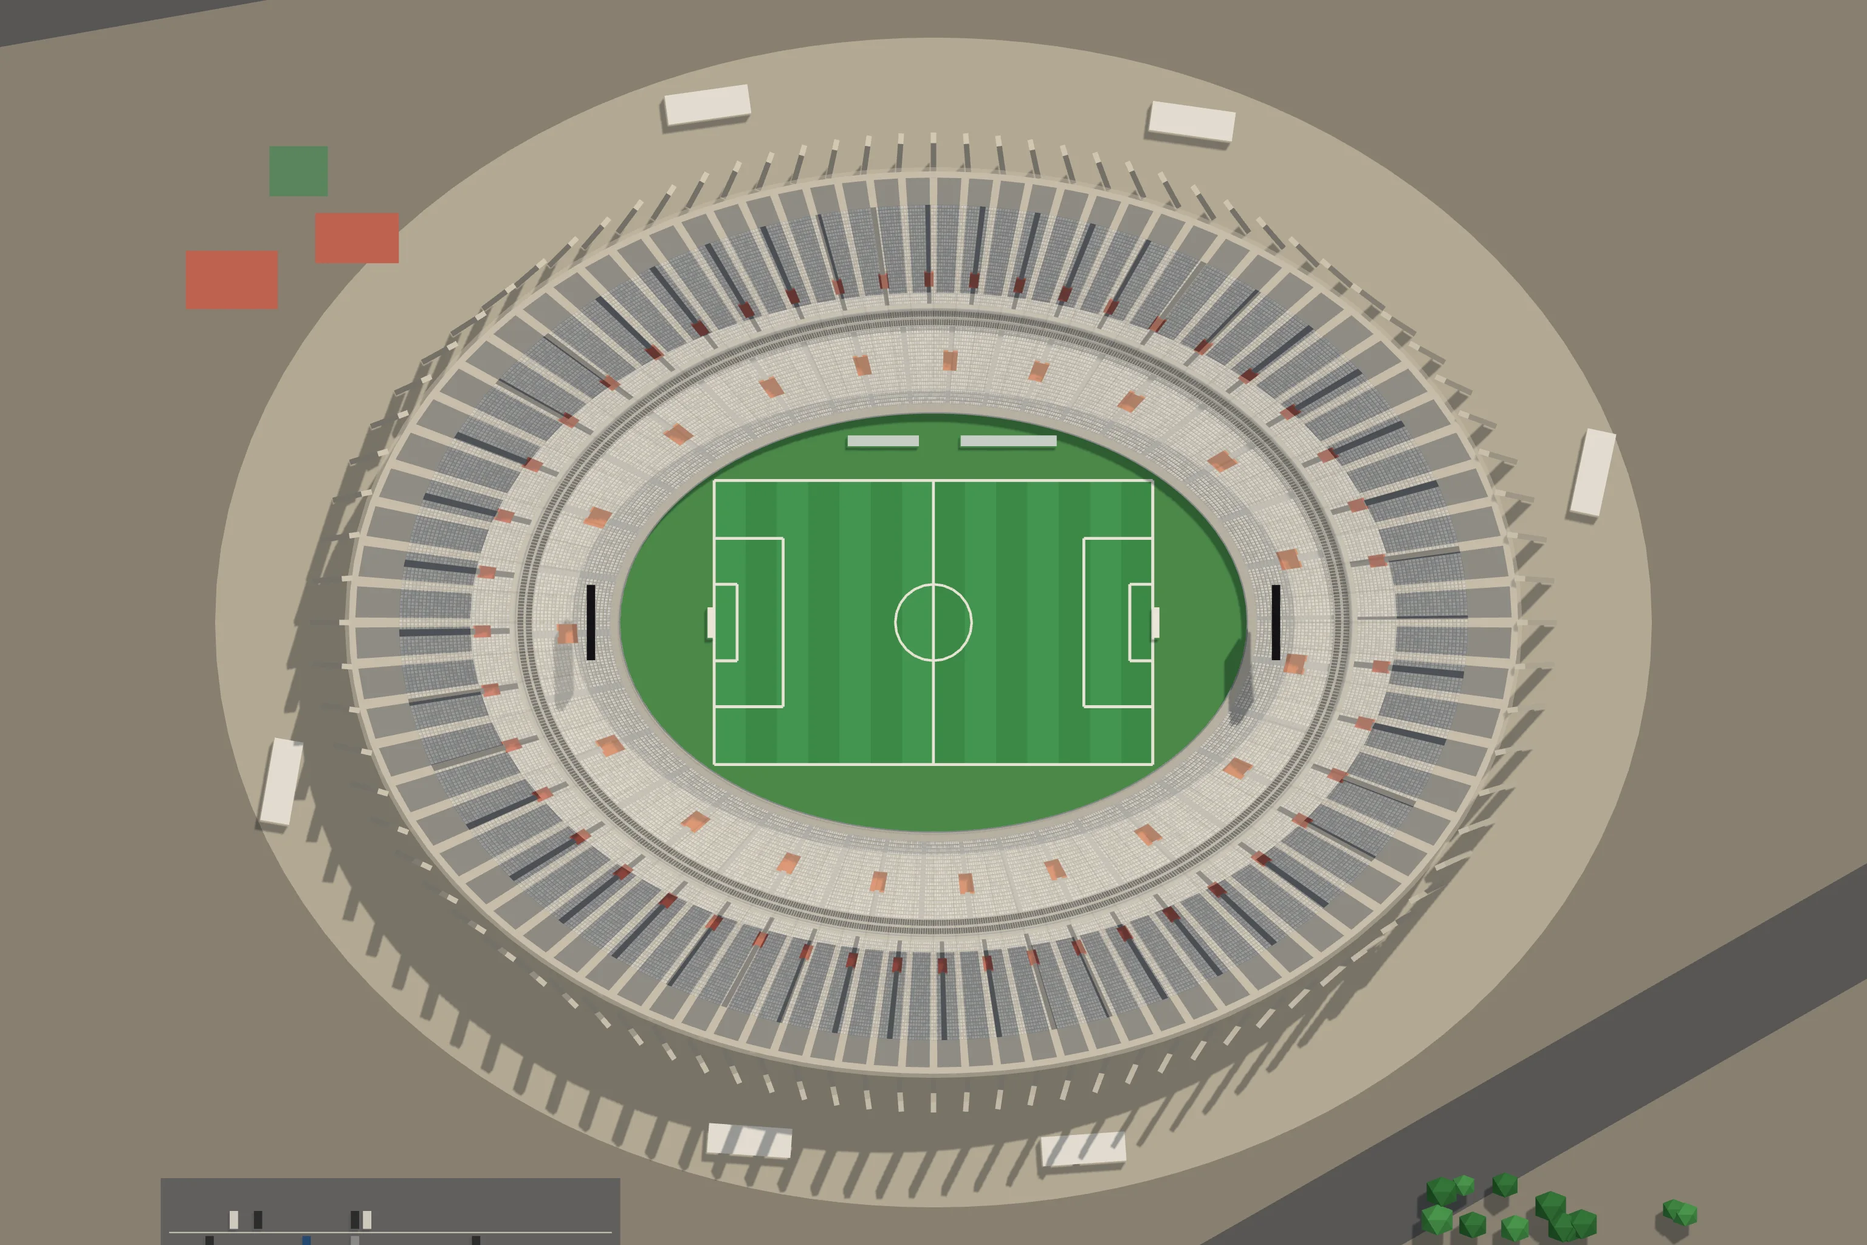
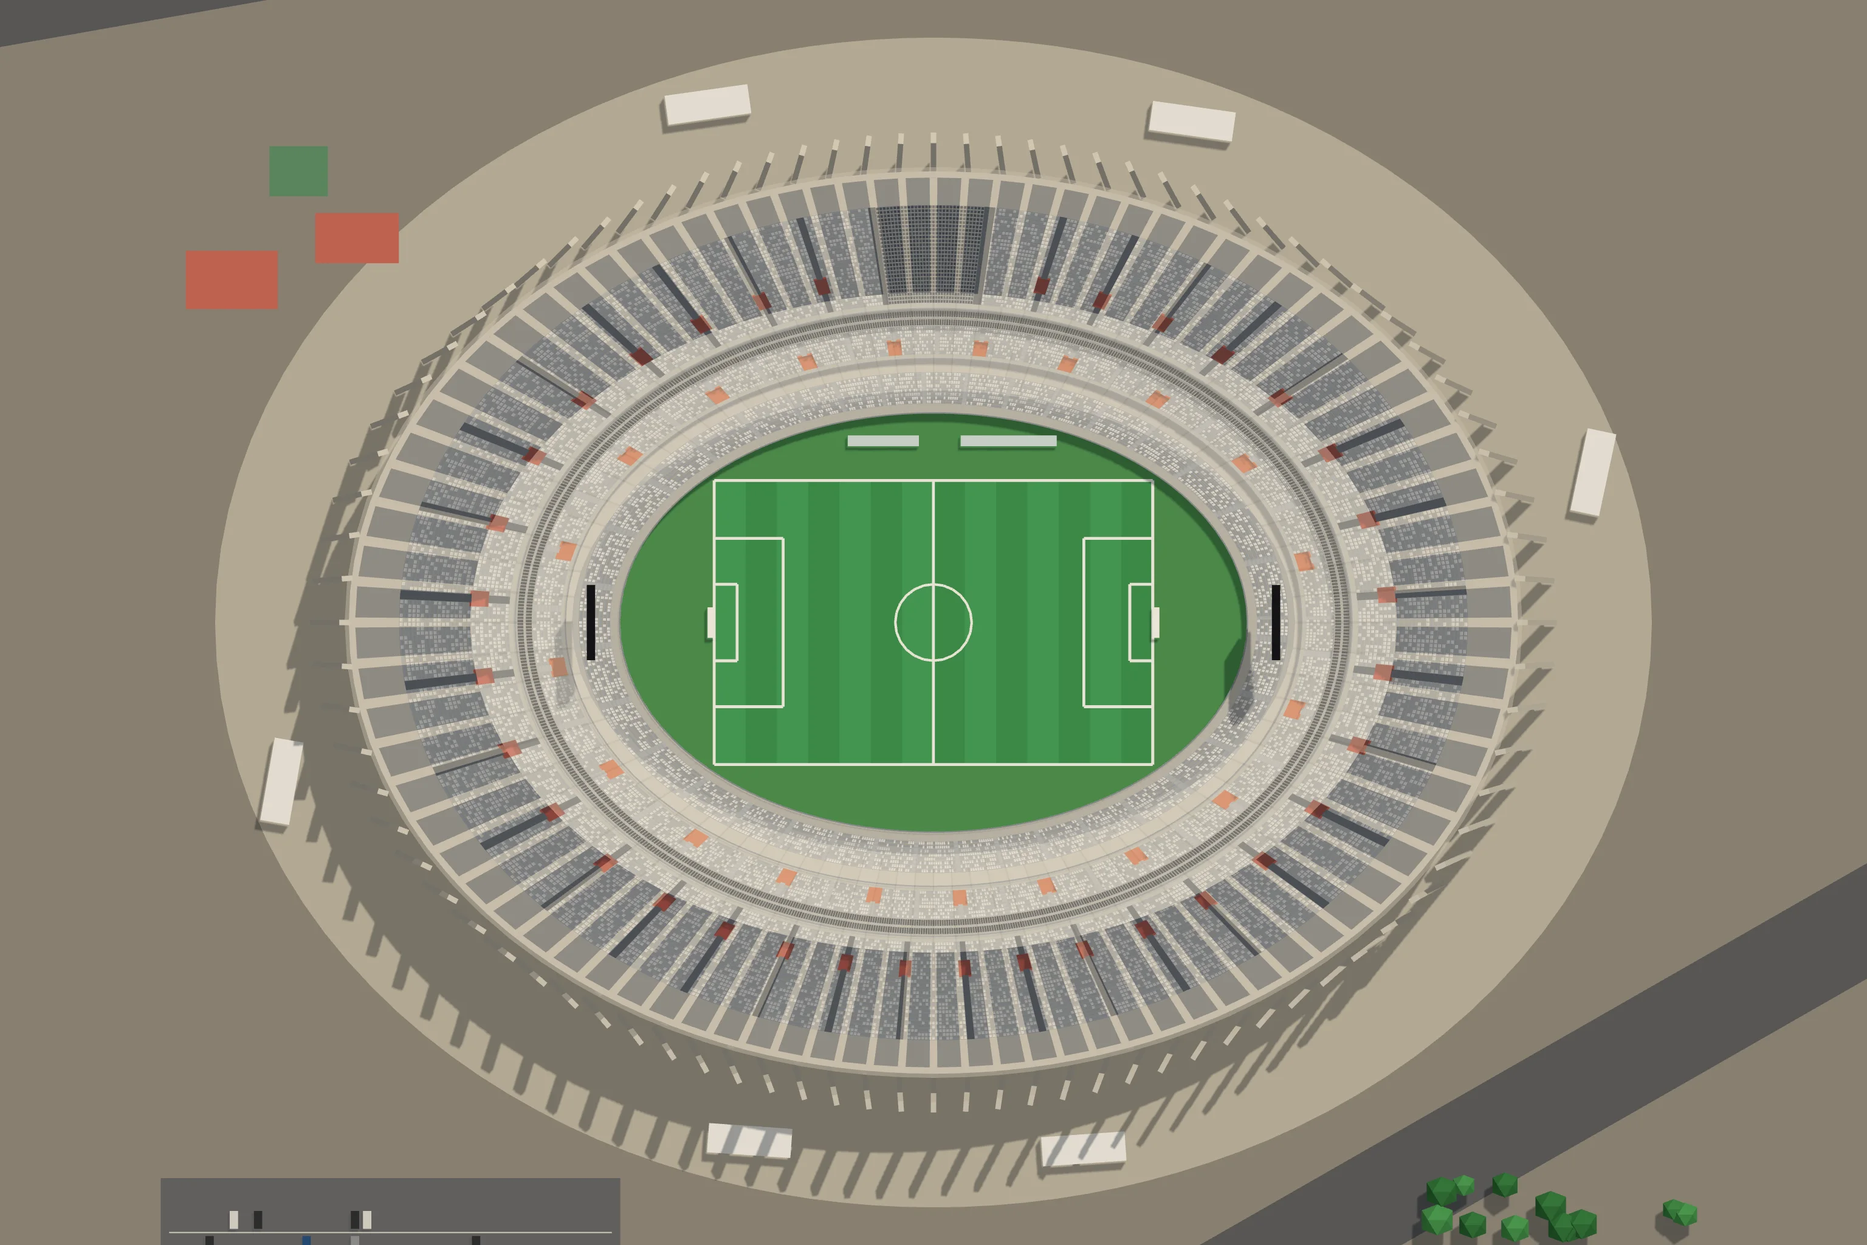
Mineirão pelas fotos novas do dono: o lance de baixo partido pelo corredor de concreto, com o muro e as bocas laranja; a cadeira em mosaico de cinzas; a tribuna de imprensa escura
Claude-Session: https://claude.ai/code/session_019hwwMAyyP7ZAvyq6wYTetr

Changed region(s): [[0.2188, 0.1562, 0.7812, 0.8438]]

diff --git a/cenario3d/planta.html b/cenario3d/planta.html
@@ -289,24 +289,24 @@ button:focus-visible, input:focus-visible { outline: 2px solid var(--selecao); o
 
 <script type="module">
 import * as THREE from 'https://cdn.jsdelivr.net/npm/three@0.160.0/build/three.module.min.js';
-import { planoDaCasa, montarCasa, juntarBlocos, lugarDoDecalque, placasDoLote, segmentosDoMuro, carrosDoEstacionamento, portaoDoEstacionamento } from './js/casas3d.js?v=68bb783b10';
-import { montarModelos } from './js/modelos3d.js?v=68bb783b10';
-import { moldeDaPeca, comTransformador } from './js/props3d.js?v=68bb783b10';
-import { ATLAS } from './js/modelos_atlas.js?v=68bb783b10';
-import { Construtor, sorteio } from './js/construtor3d.js?v=68bb783b10';
-import { gerarProposta, MAPAS, MAPA_DO_PORTE, RUA, LONGE_DO_ESTADIO_M, cisaoDaPraca, VAO_CIDADES_M, PRAIA_A_MAIS } from './js/proposta.js?v=68bb783b10';
-import { montarSede, nivelQueCabe } from './js/sede3d.js?v=68bb783b10';
-import { onibus as onibusDetalhe, juntar as juntarDetalhe } from './js/detalhe3d.js?v=68bb783b10';
-import { montarLoteDeVeraneio, plantaDoLote, festaNoMundo, noMundoDoLote, cenaDaFesta, detalheDaCasaDaFesta } from './js/veraneio3d.js?v=68bb783b10';
-import { montarCaravana, cenaDaCaravana } from './js/caravana3d.js?v=68bb783b10';
-import { montarEstacao, montarTunel, montarCarro, TREM } from './js/metro3d.js?v=68bb783b10';
-import { montarShopping, montarDelegacia, montarPraca, montarIgreja, montarEscola, montarHospital } from './js/equip3d.js?v=68bb783b10';
-import { montarEquipAntigo, TIPOS_ANTIGOS } from './js/equip_antigo3d.js?v=68bb783b10';
-import { PECAS_PRAIA, montarPecaDaPraia } from './js/praia3d.js?v=68bb783b10';
-import { ESPECIES_LP, FLORA_LP, montarArvoreLowpoly, montarAsDez, facesDaArvore, especieLowpolyDe } from './js/arvores_lowpoly.js?v=68bb783b10';
-import { plantarMato, montarMato, LONGE_M, DENSIDADE, LADRILHO_M } from './js/mato3d.js?v=68bb783b10';
-import { ESTADIOS_JOGO, montarEstadioJogo, glbDoEstadio, cortarEstadio, plantaDoEstadio, modeloDaLotacao, nomeDoLetreiro, nomeComAcento, marcaDoEstadio, BOCAS_DOS_PORTOES, BILHETERIAS_DA_RUA } from './js/estadios3d.js?v=68bb783b10';
-import { PECAS_AMBULANTES, montarAmbulante } from './js/ambulantes3d.js?v=68bb783b10';
+import { planoDaCasa, montarCasa, juntarBlocos, lugarDoDecalque, placasDoLote, segmentosDoMuro, carrosDoEstacionamento, portaoDoEstacionamento } from './js/casas3d.js?v=083242fc08';
+import { montarModelos } from './js/modelos3d.js?v=083242fc08';
+import { moldeDaPeca, comTransformador } from './js/props3d.js?v=083242fc08';
+import { ATLAS } from './js/modelos_atlas.js?v=083242fc08';
+import { Construtor, sorteio } from './js/construtor3d.js?v=083242fc08';
+import { gerarProposta, MAPAS, MAPA_DO_PORTE, RUA, LONGE_DO_ESTADIO_M, cisaoDaPraca, VAO_CIDADES_M, PRAIA_A_MAIS } from './js/proposta.js?v=083242fc08';
+import { montarSede, nivelQueCabe } from './js/sede3d.js?v=083242fc08';
+import { onibus as onibusDetalhe, juntar as juntarDetalhe } from './js/detalhe3d.js?v=083242fc08';
+import { montarLoteDeVeraneio, plantaDoLote, festaNoMundo, noMundoDoLote, cenaDaFesta, detalheDaCasaDaFesta } from './js/veraneio3d.js?v=083242fc08';
+import { montarCaravana, cenaDaCaravana } from './js/caravana3d.js?v=083242fc08';
+import { montarEstacao, montarTunel, montarCarro, TREM } from './js/metro3d.js?v=083242fc08';
+import { montarShopping, montarDelegacia, montarPraca, montarIgreja, montarEscola, montarHospital } from './js/equip3d.js?v=083242fc08';
+import { montarEquipAntigo, TIPOS_ANTIGOS } from './js/equip_antigo3d.js?v=083242fc08';
+import { PECAS_PRAIA, montarPecaDaPraia } from './js/praia3d.js?v=083242fc08';
+import { ESPECIES_LP, FLORA_LP, montarArvoreLowpoly, montarAsDez, facesDaArvore, especieLowpolyDe } from './js/arvores_lowpoly.js?v=083242fc08';
+import { plantarMato, montarMato, LONGE_M, DENSIDADE, LADRILHO_M } from './js/mato3d.js?v=083242fc08';
+import { ESTADIOS_JOGO, montarEstadioJogo, glbDoEstadio, cortarEstadio, plantaDoEstadio, modeloDaLotacao, nomeDoLetreiro, nomeComAcento, marcaDoEstadio, BOCAS_DOS_PORTOES, BILHETERIAS_DA_RUA } from './js/estadios3d.js?v=083242fc08';
+import { PECAS_AMBULANTES, montarAmbulante } from './js/ambulantes3d.js?v=083242fc08';
 
 const $ = id => document.getElementById(id);
 const aviso = $('aviso');
@@ -323,25 +323,25 @@ function carregarScript(src) {
 }
 window.TO = window.TO || { dados: {} };
 try {
-  await carregarScript('dados/torcidas.js?v=68bb783b10');
-  await carregarScript('dados/times.js?v=68bb783b10');
-  await carregarScript('dados/cena_estadio.js?v=68bb783b10');
-  await carregarScript('dados/cidades.js?v=68bb783b10');
-  await carregarScript('dados/estadios.js?v=68bb783b10');
-  await carregarScript('dados/escudos.js?v=68bb783b10');
+  await carregarScript('dados/torcidas.js?v=083242fc08');
+  await carregarScript('dados/times.js?v=083242fc08');
+  await carregarScript('dados/cena_estadio.js?v=083242fc08');
+  await carregarScript('dados/cidades.js?v=083242fc08');
+  await carregarScript('dados/estadios.js?v=083242fc08');
+  await carregarScript('dados/escudos.js?v=083242fc08');
   /* o manifesto das faixas de verdade (a arte do dono, 29/09/2026): a arquibancada estende a da torcida */
-  await carregarScript('dados/faixas.js?v=68bb783b10').catch(() => {});
+  await carregarScript('dados/faixas.js?v=083242fc08').catch(() => {});
   /* O DOMÍNIO DOS BAIRROS (o dono, 30/09/2026): as sedes repetidas num
      bairro saem espalhadas (nos dados, na carga) e os bares ganham o
      bairro deles — o mesmo módulo do jogo (js/mundo/dominio.js) */
-  await carregarScript('js/dominio.js?v=68bb783b10').catch(() => {});
+  await carregarScript('js/dominio.js?v=083242fc08').catch(() => {});
 } catch (e) {
   aviso.textContent = 'A planta da cidade não carregou (' + e.message + '). Recarregue a página.';
   throw e;
 }
 /* os PNG dos escudos, embutidos (o montar.sh gera): sem o arquivo, o
    caminho vai direto pra img/escudos/ */
-await carregarScript('dados/escudos_embutidos.js?v=68bb783b10').catch(() => {});
+await carregarScript('dados/escudos_embutidos.js?v=083242fc08').catch(() => {});
 const P = TO.dados.plantaEstadio, K = P.CIDADE, M = P.METRO, CALC = K.CALC;
 /* o mapa da vez (o pequeno, o médio ou o grande, montado pra praça
    escolhida): quem monta é usarMapa, lá embaixo */

diff --git a/cenario3d/dados/estadios_cenas.js b/cenario3d/dados/estadios_cenas.js
@@ -11705,7 +11705,7 @@ window.__ESTADIOS = {
    "visitante": 3
   },
   "foto": {
-   "imagem": "img/cenas/estadio_mineirao.webp?v=d7485997",
+   "imagem": "img/cenas/estadio_mineirao.webp?v=0746d0d3",
    "mascara": "384;384;384;384;384;384;384;384;384;384;384;384;384;384;384;384;384;384;384;384;384;384;384;384;384;384;384;384;384;384;384;384;384;384;384;384;177,30,177;169,46,169;163,58,163;158,68,158;154,76,154;150,84,150;147,90,147;144,96,144;141,102,141;138,108,138;136,112,136;133,118,133;131,122,131;129,126,129;127,130,127;125,134,125;123,138,123;121,142,121;119,146,119;118,148,118;116,152,116;115,154,115;113,158,113;112,160,112;110,164,110;109,166,109;107,170,107;106,172,106;105,174,105;104,176,104;102,180,102;101,182,101;100,184,100;99,186,99;98,188,98;97,190,97;96,192,96;95,194,95;94,196,94;93,198,93;92,200,92;92,200,92;91,202,91;90,204,90;89,206,89;88,208,88;88,208,88;87,210,87;86,103,6,103,86;86,92,28,92,86;85,88,38,88,85;84,84,48,84,84;84,81,54,81,84;83,79,60,79,83;82,77,66,77,82;82,75,70,75,82;81,74,74,74,81;81,72,78,72,81;80,71,82,71,80;80,69,86,69,80;79,68,90,68,79;79,67,92,67,79;78,67,94,67,78;78,65,98,65,78;78,64,100,64,78;77,64,102,64,77;77,63,104,63,77;77,62,106,62,77;76,62,108,62,76;76,61,110,61,76;76,60,112,60,76;75,60,114,60,75;75,59,116,59,75;75,58,118,58,75;74,59,118,59,74;74,58,120,58,74;74,57,122,57,74;74,57,122,57,74;74,56,124,56,74;73,57,124,57,73;73,56,126,56,73;73,56,126,56,73;73,56,126,56,73;73,55,128,55,73;73,55,128,55,73;73,55,128,55,73;73,55,128,55,73;72,55,130,55,72;72,55,130,55,72;72,55,130,55,72;72,55,130,55,72;72,55,130,55,72;72,55,130,55,72;72,55,130,55,72;72,55,130,55,72;72,55,130,55,72;72,55,130,55,72;73,55,128,55,73;73,55,128,55,73;73,55,128,55,73;73,55,128,55,73;73,56,126,56,73;73,56,126,56,73;73,56,126,56,73;73,57,124,57,73;74,56,124,56,74;74,57,122,57,74;74,57,122,57,74;74,58,120,58,74;74,59,118,59,74;75,58,118,58,75;75,59,116,59,75;75,60,114,60,75;76,60,112,60,76;76,61,110,61,76;76,62,108,62,76;77,62,106,62,77;77,63,104,63,77;77,64,102,64,77;78,64,100,64,78;78,65,98,65,78;78,67,94,67,78;79,67,92,67,79;79,68,90,68,79;80,69,86,69,80;80,71,82,71,80;81,72,78,72,81;81,74,74,74,81;82,75,70,75,82;82,77,66,77,82;83,79,60,79,83;84,81,54,81,84;84,84,48,84,84;85,88,38,88,85;86,92,28,92,86;86,103,6,103,86;87,210,87;88,208,88;88,208,88;89,206,89;90,204,90;91,202,91;92,200,92;92,200,92;93,198,93;94,196,94;95,194,95;96,192,96;97,190,97;98,188,98;99,186,99;100,184,100;101,182,101;102,180,102;104,176,104;105,174,105;106,172,106;107,170,107;109,166,109;110,164,110;112,160,112;113,158,113;115,154,115;116,152,116;118,148,118;119,146,119;121,142,121;123,138,123;125,134,125;127,130,127;129,126,129;131,122,131;133,118,133;136,112,136;138,108,138;141,102,141;144,96,144;147,90,147;150,84,150;154,76,154;158,68,158;163,58,163;169,46,169;177,30,177;384;384;384;384;384;384;384;384;384;384;384;384;384;384;384;384;384;384;384;384;384;384;384;384;384;384;384;384;384;384;384;384;384;384;384;384"
   },
   "cena": {
@@ -11772,7 +11772,7 @@ window.__ESTADIOS = {
      "rot": "MANDANTE 1º ESCALÃO",
      "lado": "mandante",
      "entrada": "portao_mandante",
-     "x": 931,
+     "x": 976,
      "y": 1024,
      "jogador": true
     },
@@ -11782,15 +11782,15 @@ window.__ESTADIOS = {
      "lado": "mandante",
      "entrada": "portao_mandante",
      "x": 1536,
-     "y": 1447
+     "y": 1407
     },
     {
      "id": "mandante3",
      "rot": "MANDANTE 3º ESCALÃO",
      "lado": "mandante",
      "entrada": "portao_mandante",
-     "x": 1149,
-     "y": 1349
+     "x": 1182,
+     "y": 1321
     },
     {
      "id": "visitante1",
@@ -11825,10 +11825,10 @@ window.__ESTADIOS = {
      "raio": 40,
      "dir": [
       -1,
-      0.03
+      0
      ],
-     "x": 936,
-     "y": 1042
+     "x": 619,
+     "y": 1024
     },
     {
      "id": "portao_visitante",
@@ -11836,11 +11836,11 @@ window.__ESTADIOS = {
      "lado": "visitante",
      "raio": 40,
      "dir": [
-      0.67,
-      -0.75
+      0.77,
+      -0.64
      ],
-     "x": 1859,
-     "y": 663
+     "x": 2154,
+     "y": 505
     }
    ],
    "pmPostos": [

diff --git a/cenario3d/js/jogo2d.js b/cenario3d/js/jogo2d.js
@@ -17,7 +17,7 @@
    cartão da partida cai perto da hora da bola e nada do que conta o
    placar passa na frente dele.
    ========================================================= */
-import { CASCA } from './jogo_casca.js?v=68bb783b10';
+import { CASCA } from './jogo_casca.js?v=083242fc08';
 
 const carregarScript = src => new Promise((ok, erro) => {
   const s = document.createElement('script');
@@ -31,17 +31,17 @@ async function montarJogo() {
   caixa.innerHTML = CASCA;
   while (caixa.firstChild) document.body.appendChild(caixa.firstChild);
   /* os escudos, as fotos das praças e as bandeiras embutidos (o `IMG()` do jogo procura aqui antes do caminho) */
-  await carregarScript('dados/imagens_jogo.js?v=68bb783b10').catch(() => {});
+  await carregarScript('dados/imagens_jogo.js?v=083242fc08').catch(() => {});
   /* os estádios low-poly das cenas (ferramentas/estadios/assar.js): antes do jogo, que monta as cenas quando carrega */
-  await carregarScript('dados/estadios_cenas.js?v=68bb783b10').catch(() => {});
+  await carregarScript('dados/estadios_cenas.js?v=083242fc08').catch(() => {});
   /* sem o rolo do feed: a tela entre os jogos é o portal */
   window.TO = window.TO || {};
   TO.semFeed = true;
-  await carregarScript('js/jogo.js?v=68bb783b10');
-  await carregarScript('js/portal.js?v=68bb783b10').catch(err => console.error('o portal não carregou:', err));
+  await carregarScript('js/jogo.js?v=083242fc08');
+  await carregarScript('js/portal.js?v=083242fc08').catch(err => console.error('o portal não carregou:', err));
   /* o boneco das cenas de imagem (os dois níveis afinados, em base64) */
-  if (!TO.dados.bonecoPertoGLB) await carregarScript('dados/boneco_glb.js?v=68bb783b10').catch(() => {});
-  await import('./bonecos3_global.js?v=68bb783b10').catch(err => console.error('o boneco das cenas não carregou:', err));
+  if (!TO.dados.bonecoPertoGLB) await carregarScript('dados/boneco_glb.js?v=083242fc08').catch(() => {});
+  await import('./bonecos3_global.js?v=083242fc08').catch(err => console.error('o boneco das cenas não carregou:', err));
   ligar();
 }
 

diff --git a/cenario3d/jogo.html b/cenario3d/jogo.html
@@ -9,16 +9,16 @@
 <link rel="preconnect" href="https://fonts.googleapis.com">
 <link rel="preconnect" href="https://fonts.gstatic.com" crossorigin>
 <link rel="stylesheet" href="https://fonts.googleapis.com/css2?family=Barlow+Semi+Condensed:wght@500;600;700&family=Barlow:wght@400;500;600&family=IBM+Plex+Mono:wght@400;500&display=swap">
-<link rel="stylesheet" href="css/jogo.css?v=68bb783b10">
-<link rel="stylesheet" href="css/jogo3d.css?v=68bb783b10">
-<link rel="stylesheet" href="css/portal.css?v=68bb783b10">
-<link rel="stylesheet" href="css/telas3d.css?v=68bb783b10">
+<link rel="stylesheet" href="css/jogo.css?v=083242fc08">
+<link rel="stylesheet" href="css/jogo3d.css?v=083242fc08">
+<link rel="stylesheet" href="css/portal.css?v=083242fc08">
+<link rel="stylesheet" href="css/telas3d.css?v=083242fc08">
 <style>
 [hidden] { display: none !important; }
 html, body { height: 100%; margin: 0; }
 </style>
 </head>
 <body class="jogo3d">
-<script type="module" src="js/jogo2d.js?v=68bb783b10"></script>
+<script type="module" src="js/jogo2d.js?v=083242fc08"></script>
 </body>
 </html>

diff --git a/cenario3d/js/casas3d.js b/cenario3d/js/casas3d.js
@@ -60,10 +60,10 @@
    avançam (`rec`), e o letreiro, a pixação e a falha de reboco do
    bairro vão pro plano dessa parede, não pro da divisa.
    ========================================================= */
-import { Construtor, METRO, mureta, toldo, arSplit, sorteio } from './construtor3d.js?v=68bb783b10';
-import { ATLAS } from './modelos_atlas.js?v=68bb783b10';
+import { Construtor, METRO, mureta, toldo, arSplit, sorteio } from './construtor3d.js?v=083242fc08';
+import { ATLAS } from './modelos_atlas.js?v=083242fc08';
 /* as lojas do assalto (lojas3d.js): modelos de lote como os outros */
-import { TIPOS_LOJA, REC_LOJA, placaDaLoja } from './lojas3d.js?v=68bb783b10';
+import { TIPOS_LOJA, REC_LOJA, placaDaLoja } from './lojas3d.js?v=083242fc08';
 
 /* o arquivo de cada folha, pro bairro montar o material dele */
 export const arquivoDaFolha = folha => ATLAS[folha].arquivo;

diff --git a/cenario3d/js/ambulantes3d.js b/cenario3d/js/ambulantes3d.js
@@ -27,8 +27,8 @@
    que a planta acha o lugar dela na calçada do estádio. `sol`: o meio e
    o raio da copa ([x, z, r]), que o mapa desenha de perto.
    ========================================================= */
-import { Construtor, noMundo, placasNoMundo, sorteio, esfera, unit } from './construtor3d.js?v=68bb783b10';
-import { Lugar, barra, tubo, cilindro, bloco, pano, toro, guardaSol, cadeiraPlastica, isopor, banqueta, CORES_SOL } from './praia3d.js?v=68bb783b10';
+import { Construtor, noMundo, placasNoMundo, sorteio, esfera, unit } from './construtor3d.js?v=083242fc08';
+import { Lugar, barra, tubo, cilindro, bloco, pano, toro, guardaSol, cadeiraPlastica, isopor, banqueta, CORES_SOL } from './praia3d.js?v=083242fc08';
 
 const AQUI = Lugar();
 const escolha = (rnd, lista) => lista[Math.floor(rnd() * lista.length) % lista.length];

diff --git a/cenario3d/js/praia3d.js b/cenario3d/js/praia3d.js
@@ -36,8 +36,8 @@
    cadeira e a mesa de plástico) servem também os ambulantes da porta do
    estádio (ambulantes3d.js), na mesma folha.
    ========================================================= */
-import { Construtor, METRO, lerp, sub, soma, esc, unit, pv, noMundo, placasNoMundo, sorteio, varrer, esfera } from './construtor3d.js?v=68bb783b10';
-import { montarArvoreLowpoly } from './arvores_lowpoly.js?v=68bb783b10';
+import { Construtor, METRO, lerp, sub, soma, esc, unit, pv, noMundo, placasNoMundo, sorteio, varrer, esfera } from './construtor3d.js?v=083242fc08';
+import { montarArvoreLowpoly } from './arvores_lowpoly.js?v=083242fc08';
 
 const ALTO = [0, 1, 0];
 const escolha = (rnd, lista) => lista[Math.floor(rnd() * lista.length) % lista.length];

diff --git a/cenario3d/js/modelos3d.js b/cenario3d/js/modelos3d.js
@@ -32,8 +32,8 @@
    requadro da janela, toldo, ar-condicionado. O resto é pintura.
    ========================================================= */
 import * as THREE from 'https://cdn.jsdelivr.net/npm/three@0.160.0/build/three.module.min.js';
-import { ATLAS } from './modelos_atlas.js?v=68bb783b10';
-import { Construtor, METRO, lerp, sub, soma, esc, pv, pe, unit, recuoPoligono, mureta, toldo, arSplit } from './construtor3d.js?v=68bb783b10';
+import { ATLAS } from './modelos_atlas.js?v=083242fc08';
+import { Construtor, METRO, lerp, sub, soma, esc, pv, pe, unit, recuoPoligono, mureta, toldo, arSplit } from './construtor3d.js?v=083242fc08';
 
 /* =======================================================
    1. A IGREJA MATRIZ

diff --git a/cenario3d/js/props3d.js b/cenario3d/js/props3d.js
@@ -26,8 +26,8 @@
    poste vira uma haste de longe; o resto, que é miúdo, some.
    ========================================================= */
 import * as THREE from 'https://cdn.jsdelivr.net/npm/three@0.160.0/build/three.module.min.js';
-import { ATLAS } from './modelos_atlas.js?v=68bb783b10';
-import { Construtor, METRO, lerp } from './construtor3d.js?v=68bb783b10';
+import { ATLAS } from './modelos_atlas.js?v=083242fc08';
+import { Construtor, METRO, lerp } from './construtor3d.js?v=083242fc08';
 
 /* as cores que o vértice dá pro que sai claro na folha */
 const COR_CESTO = ['#6aa33a', '#d2b53a', '#3f82ad', '#8b6a3c', '#b8452f'];

diff --git a/cenario3d/js/mato3d.js b/cenario3d/js/mato3d.js
@@ -19,8 +19,8 @@
 
    Tudo em metros; `noMundo` converte. A mesma semente dá o mesmo mato.
    ========================================================= */
-import { METRO, noMundo, sorteio } from './construtor3d.js?v=68bb783b10';
-import { facesDaArvore, especieLowpolyDe } from './arvores_lowpoly.js?v=68bb783b10';
+import { METRO, noMundo, sorteio } from './construtor3d.js?v=083242fc08';
+import { facesDaArvore, especieLowpolyDe } from './arvores_lowpoly.js?v=083242fc08';
 
 /* a área de chão de cada árvore (m²), por lugar */
 export const DENSIDADE = { mata: 70, cerrado: 200, caatinga: 150, sul: 90, praia: 120, cidade: 250 };

diff --git a/cenario3d/js/bonecos3_global.js b/cenario3d/js/bonecos3_global.js
@@ -14,7 +14,7 @@
    DOMContentLoaded: quem usa (a ponte, numa cena aberta pelo jogador)
    chega muito depois.
    ========================================================= */
-import { montar, desenharDeCima, desenharVitrine, limparDeCima, fotoDoTrofeu, fotoDaBriga, fotoDaCena, perdeu, bonecos } from './bonecos3_cena.js?v=68bb783b10';
+import { montar, desenharDeCima, desenharVitrine, limparDeCima, fotoDoTrofeu, fotoDaBriga, fotoDaCena, perdeu, bonecos } from './bonecos3_cena.js?v=083242fc08';
 
 window.TO = window.TO || {};
 TO.diaJogo = TO.diaJogo || {};

diff --git a/cenario3d/js/bonecos3_cena.js b/cenario3d/js/bonecos3_cena.js
@@ -103,7 +103,7 @@
       numa fase sorteada (quem sai junto não sai no mesmo pé).
    ========================================================= */
 import * as THREE from 'https://cdn.jsdelivr.net/npm/three@0.160.0/build/three.module.min.js';
-import { GLTFLoader, SkeletonUtils } from './GLTFLoader.js?v=68bb783b10';
+import { GLTFLoader, SkeletonUtils } from './GLTFLoader.js?v=083242fc08';
 
 /* onde o modelo mora, quando não vem embutido em base64: o detalhado
    (o do Blender) e os dois níveis afinados dele (ferramentas/afinar_boneco.mjs) */
